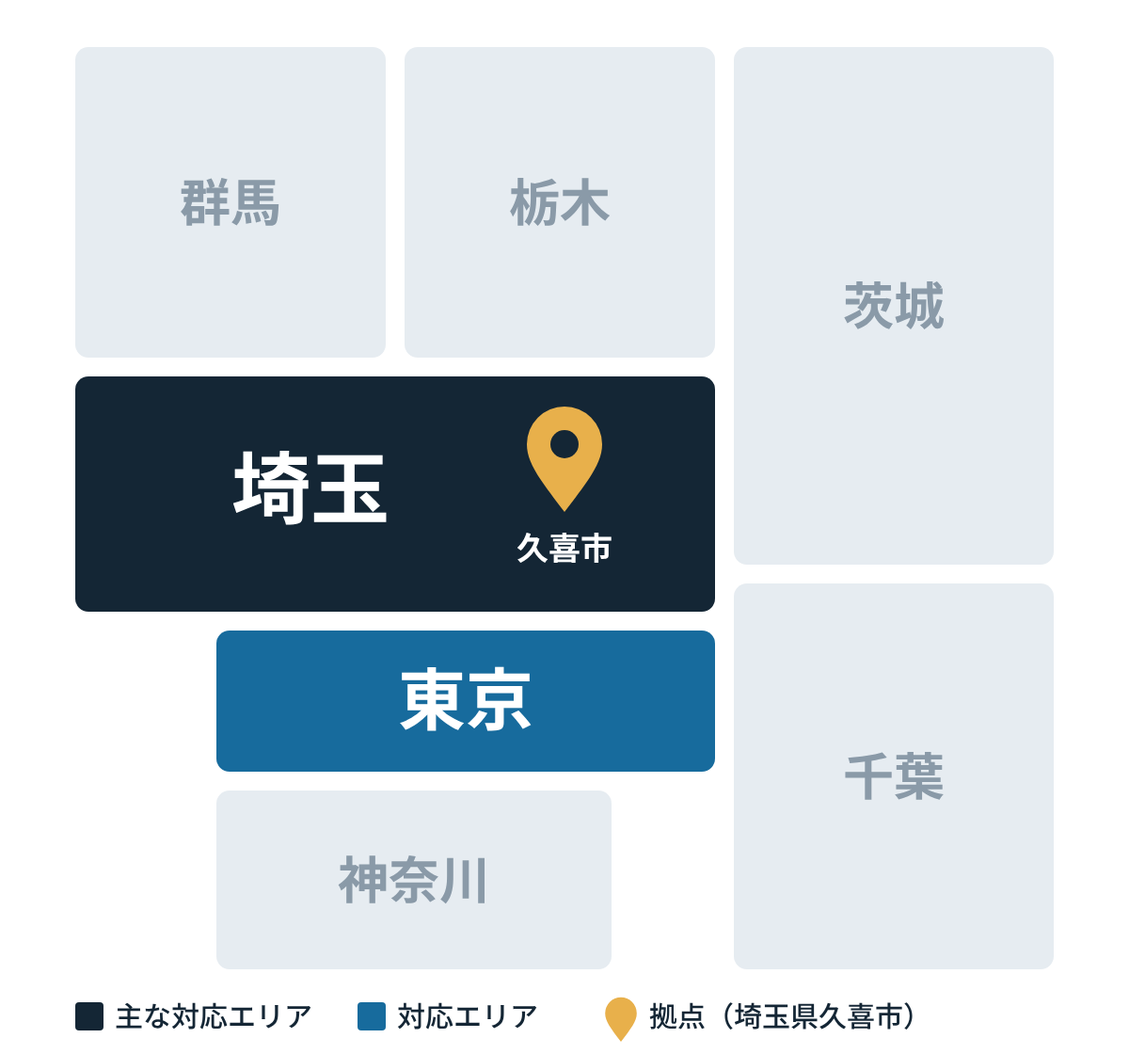
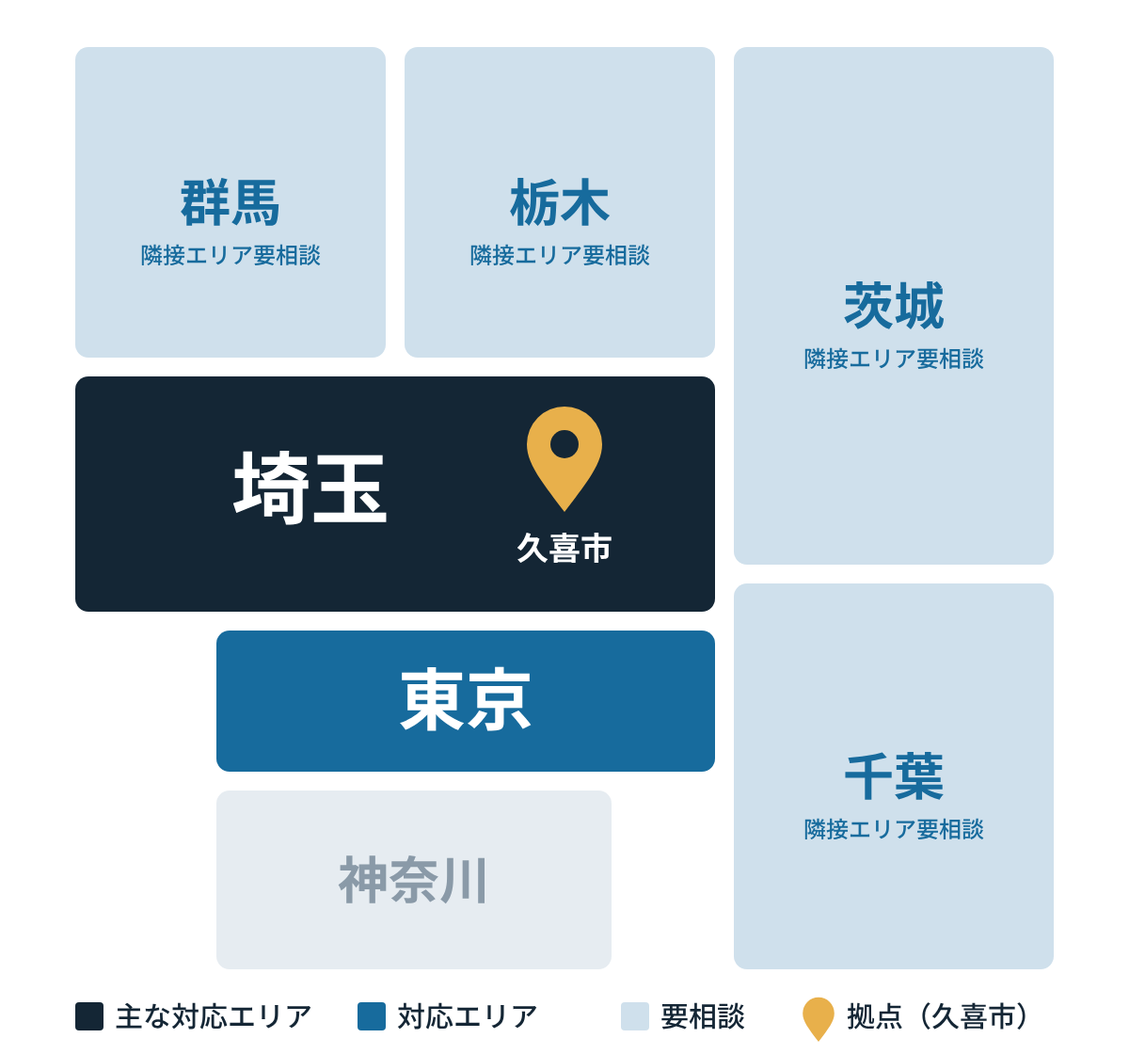
対応エリアに近隣4県の隣接エリア（要相談）を追加（地図・見本・指示書・AGENTS）
Claude-Session: https://claude.ai/code/session_0184Tob37FeXhvyjdxB8FYEQ

diff --git a/docs/design/white-mockup.html b/docs/design/white-mockup.html
@@ -187,7 +187,7 @@ a{color:#176B9D}a:hover{color:#142635}
 <a href="#contact" style="display: inline-flex; gap: 10px; align-items: center; background: #142635; color: #FFFFFF; text-decoration: none; padding: 16px 28px; font-weight: 700; font-size: 15px">ここにない質問も、お気軽に<span aria-hidden="true">→</span></a>
 </div>
 <div style="display: grid; grid-template-columns: repeat(2, minmax(0, 1fr)); gap: 16px">
-<div style="background:#F1F5F8;padding:28px 32px;display:flex;flex-direction:column;gap:16px;border-left:4px solid #142635"><div style="display:flex;gap:16px;align-items:center"><span style="flex:none;width:40px;height:40px;border-radius:50%;background:#142635;color:#FFFFFF;display:flex;align-items:center;justify-content:center;font-family:Inter,sans-serif;font-weight:800;font-size:18px">Q</span><p style="margin:0;font-size:19px;font-weight:700;line-height:1.5">どこまで対応してもらえますか？</p></div><div style="display:flex;gap:16px;align-items:flex-start"><span style="flex:none;width:40px;height:40px;border-radius:50%;background:#E8B04B;color:#142635;display:flex;align-items:center;justify-content:center;font-family:Inter,sans-serif;font-weight:800;font-size:18px">A</span><p style="margin:6px 0 0;font-size:15px;line-height:1.9;color:#33475A">退去立会いから、内装や設備の入れ替え工事、ハウスクリーニングまでまとめて対応します。</p></div></div><div style="background:#F1F5F8;padding:28px 32px;display:flex;flex-direction:column;gap:16px;border-left:4px solid #142635"><div style="display:flex;gap:16px;align-items:center"><span style="flex:none;width:40px;height:40px;border-radius:50%;background:#142635;color:#FFFFFF;display:flex;align-items:center;justify-content:center;font-family:Inter,sans-serif;font-weight:800;font-size:18px">Q</span><p style="margin:0;font-size:19px;font-weight:700;line-height:1.5">料金はどのように決まりますか？</p></div><div style="display:flex;gap:16px;align-items:flex-start"><span style="flex:none;width:40px;height:40px;border-radius:50%;background:#E8B04B;color:#142635;display:flex;align-items:center;justify-content:center;font-family:Inter,sans-serif;font-weight:800;font-size:18px">A</span><p style="margin:6px 0 0;font-size:15px;line-height:1.9;color:#33475A">物件の広さ、汚れの程度、仕様や数量、駐車条件によって変わります。現地確認のうえでお見積りをご提示します。</p></div></div><div style="background:#F1F5F8;padding:28px 32px;display:flex;flex-direction:column;gap:16px;border-left:4px solid #142635"><div style="display:flex;gap:16px;align-items:center"><span style="flex:none;width:40px;height:40px;border-radius:50%;background:#142635;color:#FFFFFF;display:flex;align-items:center;justify-content:center;font-family:Inter,sans-serif;font-weight:800;font-size:18px">Q</span><p style="margin:0;font-size:19px;font-weight:700;line-height:1.5">定期発注や複数物件にも対応できますか？</p></div><div style="display:flex;gap:16px;align-items:flex-start"><span style="flex:none;width:40px;height:40px;border-radius:50%;background:#E8B04B;color:#142635;display:flex;align-items:center;justify-content:center;font-family:Inter,sans-serif;font-weight:800;font-size:18px">A</span><p style="margin:6px 0 0;font-size:15px;line-height:1.9;color:#33475A">対応できます。ボリュームや頻度に応じた条件もご相談ください。</p></div></div><div style="background:#F1F5F8;padding:28px 32px;display:flex;flex-direction:column;gap:16px;border-left:4px solid #142635"><div style="display:flex;gap:16px;align-items:center"><span style="flex:none;width:40px;height:40px;border-radius:50%;background:#142635;color:#FFFFFF;display:flex;align-items:center;justify-content:center;font-family:Inter,sans-serif;font-weight:800;font-size:18px">Q</span><p style="margin:0;font-size:19px;font-weight:700;line-height:1.5">報告書や写真はもらえますか？</p></div><div style="display:flex;gap:16px;align-items:flex-start"><span style="flex:none;width:40px;height:40px;border-radius:50%;background:#E8B04B;color:#142635;display:flex;align-items:center;justify-content:center;font-family:Inter,sans-serif;font-weight:800;font-size:18px">A</span><p style="margin:6px 0 0;font-size:15px;line-height:1.9;color:#33475A">作業前後の写真と作業報告書をご用意できます。</p></div></div><div style="background:#F1F5F8;padding:28px 32px;display:flex;flex-direction:column;gap:16px;border-left:4px solid #142635"><div style="display:flex;gap:16px;align-items:center"><span style="flex:none;width:40px;height:40px;border-radius:50%;background:#142635;color:#FFFFFF;display:flex;align-items:center;justify-content:center;font-family:Inter,sans-serif;font-weight:800;font-size:18px">Q</span><p style="margin:0;font-size:19px;font-weight:700;line-height:1.5">対応エリアを教えてください。</p></div><div style="display:flex;gap:16px;align-items:flex-start"><span style="flex:none;width:40px;height:40px;border-radius:50%;background:#E8B04B;color:#142635;display:flex;align-items:center;justify-content:center;font-family:Inter,sans-serif;font-weight:800;font-size:18px">A</span><p style="margin:6px 0 0;font-size:15px;line-height:1.9;color:#33475A">埼玉県を中心に、東京都にも対応しています。複数物件をまとめてのご依頼や法人のお客様は、エリア外でも対応できる場合がありますのでご相談ください。</p></div><div style="background:#F1F5F8;padding:28px 32px;display:flex;flex-direction:column;gap:16px;border-left:4px solid #142635"><div style="display:flex;gap:16px;align-items:center"><span style="flex:none;width:40px;height:40px;border-radius:50%;background:#142635;color:#FFFFFF;display:flex;align-items:center;justify-content:center;font-family:Inter,sans-serif;font-weight:800;font-size:18px">Q</span><p style="margin:0;font-size:19px;font-weight:700;line-height:1.5">立会いは必要ですか？</p></div><div style="display:flex;gap:16px;align-items:flex-start"><span style="flex:none;width:40px;height:40px;border-radius:50%;background:#E8B04B;color:#142635;display:flex;align-items:center;justify-content:center;font-family:Inter,sans-serif;font-weight:800;font-size:18px">A</span><p style="margin:6px 0 0;font-size:15px;line-height:1.9;color:#33475A">立会いなしでも作業できます。鍵はキーボックスでの受け渡しをお願いしています。作業前後の様子は、写真でご報告します。</p></div></div><div style="background:#F1F5F8;padding:28px 32px;display:flex;flex-direction:column;gap:16px;border-left:4px solid #142635"><div style="display:flex;gap:16px;align-items:center"><span style="flex:none;width:40px;height:40px;border-radius:50%;background:#142635;color:#FFFFFF;display:flex;align-items:center;justify-content:center;font-family:Inter,sans-serif;font-weight:800;font-size:18px">Q</span><p style="margin:0;font-size:19px;font-weight:700;line-height:1.5">どのくらいの日数で終わりますか？</p></div><div style="display:flex;gap:16px;align-items:flex-start"><span style="flex:none;width:40px;height:40px;border-radius:50%;background:#E8B04B;color:#142635;display:flex;align-items:center;justify-content:center;font-family:Inter,sans-serif;font-weight:800;font-size:18px">A</span><p style="margin:6px 0 0;font-size:15px;line-height:1.9;color:#33475A">空室クリーニングのみの場合、1R〜2LDKで1日、2LDK〜3LDKで2日が目安です。日程に空きがあれば即日の対応も可能です。</p></div></div></div>
+<div style="background:#F1F5F8;padding:28px 32px;display:flex;flex-direction:column;gap:16px;border-left:4px solid #142635"><div style="display:flex;gap:16px;align-items:center"><span style="flex:none;width:40px;height:40px;border-radius:50%;background:#142635;color:#FFFFFF;display:flex;align-items:center;justify-content:center;font-family:Inter,sans-serif;font-weight:800;font-size:18px">Q</span><p style="margin:0;font-size:19px;font-weight:700;line-height:1.5">どこまで対応してもらえますか？</p></div><div style="display:flex;gap:16px;align-items:flex-start"><span style="flex:none;width:40px;height:40px;border-radius:50%;background:#E8B04B;color:#142635;display:flex;align-items:center;justify-content:center;font-family:Inter,sans-serif;font-weight:800;font-size:18px">A</span><p style="margin:6px 0 0;font-size:15px;line-height:1.9;color:#33475A">退去立会いから、内装や設備の入れ替え工事、ハウスクリーニングまでまとめて対応します。</p></div></div><div style="background:#F1F5F8;padding:28px 32px;display:flex;flex-direction:column;gap:16px;border-left:4px solid #142635"><div style="display:flex;gap:16px;align-items:center"><span style="flex:none;width:40px;height:40px;border-radius:50%;background:#142635;color:#FFFFFF;display:flex;align-items:center;justify-content:center;font-family:Inter,sans-serif;font-weight:800;font-size:18px">Q</span><p style="margin:0;font-size:19px;font-weight:700;line-height:1.5">料金はどのように決まりますか？</p></div><div style="display:flex;gap:16px;align-items:flex-start"><span style="flex:none;width:40px;height:40px;border-radius:50%;background:#E8B04B;color:#142635;display:flex;align-items:center;justify-content:center;font-family:Inter,sans-serif;font-weight:800;font-size:18px">A</span><p style="margin:6px 0 0;font-size:15px;line-height:1.9;color:#33475A">物件の広さ、汚れの程度、仕様や数量、駐車条件によって変わります。現地確認のうえでお見積りをご提示します。</p></div></div><div style="background:#F1F5F8;padding:28px 32px;display:flex;flex-direction:column;gap:16px;border-left:4px solid #142635"><div style="display:flex;gap:16px;align-items:center"><span style="flex:none;width:40px;height:40px;border-radius:50%;background:#142635;color:#FFFFFF;display:flex;align-items:center;justify-content:center;font-family:Inter,sans-serif;font-weight:800;font-size:18px">Q</span><p style="margin:0;font-size:19px;font-weight:700;line-height:1.5">定期発注や複数物件にも対応できますか？</p></div><div style="display:flex;gap:16px;align-items:flex-start"><span style="flex:none;width:40px;height:40px;border-radius:50%;background:#E8B04B;color:#142635;display:flex;align-items:center;justify-content:center;font-family:Inter,sans-serif;font-weight:800;font-size:18px">A</span><p style="margin:6px 0 0;font-size:15px;line-height:1.9;color:#33475A">対応できます。ボリュームや頻度に応じた条件もご相談ください。</p></div></div><div style="background:#F1F5F8;padding:28px 32px;display:flex;flex-direction:column;gap:16px;border-left:4px solid #142635"><div style="display:flex;gap:16px;align-items:center"><span style="flex:none;width:40px;height:40px;border-radius:50%;background:#142635;color:#FFFFFF;display:flex;align-items:center;justify-content:center;font-family:Inter,sans-serif;font-weight:800;font-size:18px">Q</span><p style="margin:0;font-size:19px;font-weight:700;line-height:1.5">報告書や写真はもらえますか？</p></div><div style="display:flex;gap:16px;align-items:flex-start"><span style="flex:none;width:40px;height:40px;border-radius:50%;background:#E8B04B;color:#142635;display:flex;align-items:center;justify-content:center;font-family:Inter,sans-serif;font-weight:800;font-size:18px">A</span><p style="margin:6px 0 0;font-size:15px;line-height:1.9;color:#33475A">作業前後の写真と作業報告書をご用意できます。</p></div></div><div style="background:#F1F5F8;padding:28px 32px;display:flex;flex-direction:column;gap:16px;border-left:4px solid #142635"><div style="display:flex;gap:16px;align-items:center"><span style="flex:none;width:40px;height:40px;border-radius:50%;background:#142635;color:#FFFFFF;display:flex;align-items:center;justify-content:center;font-family:Inter,sans-serif;font-weight:800;font-size:18px">Q</span><p style="margin:0;font-size:19px;font-weight:700;line-height:1.5">対応エリアを教えてください。</p></div><div style="display:flex;gap:16px;align-items:flex-start"><span style="flex:none;width:40px;height:40px;border-radius:50%;background:#E8B04B;color:#142635;display:flex;align-items:center;justify-content:center;font-family:Inter,sans-serif;font-weight:800;font-size:18px">A</span><p style="margin:6px 0 0;font-size:15px;line-height:1.9;color:#33475A">埼玉県を中心に、東京都にも対応しています。群馬県・栃木県・茨城県・千葉県のうち、埼玉県に隣接するエリアもご相談ください。複数物件をまとめてのご依頼や法人のお客様は、エリア外でも対応できる場合がありますのでご相談ください。</p></div><div style="background:#F1F5F8;padding:28px 32px;display:flex;flex-direction:column;gap:16px;border-left:4px solid #142635"><div style="display:flex;gap:16px;align-items:center"><span style="flex:none;width:40px;height:40px;border-radius:50%;background:#142635;color:#FFFFFF;display:flex;align-items:center;justify-content:center;font-family:Inter,sans-serif;font-weight:800;font-size:18px">Q</span><p style="margin:0;font-size:19px;font-weight:700;line-height:1.5">立会いは必要ですか？</p></div><div style="display:flex;gap:16px;align-items:flex-start"><span style="flex:none;width:40px;height:40px;border-radius:50%;background:#E8B04B;color:#142635;display:flex;align-items:center;justify-content:center;font-family:Inter,sans-serif;font-weight:800;font-size:18px">A</span><p style="margin:6px 0 0;font-size:15px;line-height:1.9;color:#33475A">立会いなしでも作業できます。鍵はキーボックスでの受け渡しをお願いしています。作業前後の様子は、写真でご報告します。</p></div></div><div style="background:#F1F5F8;padding:28px 32px;display:flex;flex-direction:column;gap:16px;border-left:4px solid #142635"><div style="display:flex;gap:16px;align-items:center"><span style="flex:none;width:40px;height:40px;border-radius:50%;background:#142635;color:#FFFFFF;display:flex;align-items:center;justify-content:center;font-family:Inter,sans-serif;font-weight:800;font-size:18px">Q</span><p style="margin:0;font-size:19px;font-weight:700;line-height:1.5">どのくらいの日数で終わりますか？</p></div><div style="display:flex;gap:16px;align-items:flex-start"><span style="flex:none;width:40px;height:40px;border-radius:50%;background:#E8B04B;color:#142635;display:flex;align-items:center;justify-content:center;font-family:Inter,sans-serif;font-weight:800;font-size:18px">A</span><p style="margin:6px 0 0;font-size:15px;line-height:1.9;color:#33475A">空室クリーニングのみの場合、1R〜2LDKで1日、2LDK〜3LDKで2日が目安です。日程に空きがあれば即日の対応も可能です。</p></div></div></div>
 </div>
 </div>
 </section>

diff --git a/docs/design/top-mockup.html b/docs/design/top-mockup.html
@@ -38,7 +38,7 @@ a{color:#176B9D}a:hover{color:#142635}
 <p style="margin: 0; font-weight: 700; font-size: 15px; letter-spacing: 1px; color: #176B9D">埼玉の空室清掃・原状回復・エアコンクリーニング｜株式会社INcrein</p>
 <h1 style="margin: 0; font-size: 46px; line-height: 1.45; font-weight: 700; letter-spacing: 2px">きれいにする。<br>その先の、安心と<br>次のスタートを。</h1>
 <p style="margin: 0; font-size: 21px; font-weight: 700; line-height: 1.6">退去後の清掃・原状回復・エアコンクリーニングを、<br>窓口ひとつで。</p>
-<p style="margin: 0; max-width: 520px; font-size: 15px; color: #33475A">不動産管理会社様・オーナー様のパートナーとして、埼玉県を中心に東京都にも対応しています。</p>
+<p style="margin: 0; max-width: 520px; font-size: 15px; color: #33475A">不動産管理会社様・オーナー様のパートナーとして、埼玉県を中心に、東京都と、埼玉県に隣接する近県のエリア（要相談）にも対応しています。</p>
 <div style="display: flex; flex-wrap: wrap; gap: 16px; margin-top: 16px">
 <a href="#contact" style="display: inline-flex; align-items: center; gap: 12px; background: #142635; color: #FFFFFF; text-decoration: none; padding: 18px 32px; font-weight: 500">見積を相談する<span aria-hidden="true">→</span></a>
 <a href="#service" style="display: inline-flex; align-items: center; gap: 12px; border: 1px solid #142635; color: #142635; text-decoration: none; padding: 17px 31px; font-weight: 500">サービスを見る</a>
@@ -60,7 +60,7 @@ a{color:#176B9D}a:hover{color:#142635}
 </div>
 <div style="padding: 32px 24px; display: flex; flex-direction: column; gap: 4px; border-right: 1px solid #2B4256">
 <span style="font-size: 13px; color: #A9BCCB">対応エリア</span>
-<span style="font-size: 20px; font-weight: 700">埼玉県・東京都</span>
+<span style="font-size: 20px; font-weight: 700">埼玉県・東京都ほか</span>
 </div>
 <div style="padding: 32px 24px; display: flex; flex-direction: column; gap: 4px">
 <span style="font-size: 13px; color: #A9BCCB">お見積り</span>
@@ -186,11 +186,12 @@ a{color:#176B9D}a:hover{color:#142635}
 <p style="margin: 0; color: #176B9D; font-size: 15px; font-weight: 500; letter-spacing: 0.6px">・対応エリア</p>
 </div>
 <div style="display: flex; flex-wrap: wrap; gap: 56px; align-items: center">
-<img src="assets/increin-area-map.png" alt="対応エリアの地図。埼玉県が主な対応エリア、東京都も対応エリア。拠点は埼玉県久喜市" style="flex: 1 1 400px; min-width: 0; max-width: 480px; width: 100%; height: auto; display: block">
+<img src="assets/increin-area-map.png" alt="対応エリアの地図。埼玉県が主な対応エリア、東京都も対応エリア。群馬県・栃木県・茨城県・千葉県の埼玉県に隣接するエリアは要相談。拠点は埼玉県久喜市" style="flex: 1 1 400px; min-width: 0; max-width: 480px; width: 100%; height: auto; display: block">
 <div style="flex: 1 1 440px; min-width: 0; display: flex; flex-direction: column; gap: 24px">
 <h3 style="margin: 0; font-size: 26px; font-weight: 700; line-height: 1.5">久喜市を拠点に、<br>埼玉県全域と東京都へ。</h3>
 <div style="background: #F1F5F8; padding: 28px; display: flex; flex-direction: column; gap: 14px; border-left: 4px solid #142635"><span style="font-weight: 700">埼玉県（主な対応エリア）</span><div style="display: flex; flex-wrap: wrap; gap: 8px"><span style="display: inline-block; white-space: nowrap; background: #FFFFFF; border: 1px solid #D3DEE7; padding: 6px 14px; font-size: 14px">さいたま市</span><span style="display: inline-block; white-space: nowrap; background: #FFFFFF; border: 1px solid #D3DEE7; padding: 6px 14px; font-size: 14px">川口市</span><span style="display: inline-block; white-space: nowrap; background: #FFFFFF; border: 1px solid #D3DEE7; padding: 6px 14px; font-size: 14px">越谷市</span><span style="display: inline-block; white-space: nowrap; background: #FFFFFF; border: 1px solid #D3DEE7; padding: 6px 14px; font-size: 14px">春日部市</span><span style="display: inline-block; white-space: nowrap; background: #FFFFFF; border: 1px solid #D3DEE7; padding: 6px 14px; font-size: 14px">久喜市</span><span style="display: inline-block; white-space: nowrap; background: #FFFFFF; border: 1px solid #D3DEE7; padding: 6px 14px; font-size: 14px">加須市</span><span style="display: inline-block; white-space: nowrap; background: #FFFFFF; border: 1px solid #D3DEE7; padding: 6px 14px; font-size: 14px">行田市</span><span style="display: inline-block; white-space: nowrap; background: #FFFFFF; border: 1px solid #D3DEE7; padding: 6px 14px; font-size: 14px">上尾市</span><span style="display: inline-block; white-space: nowrap; background: #FFFFFF; border: 1px solid #D3DEE7; padding: 6px 14px; font-size: 14px">熊谷市</span><span style="display: inline-block; white-space: nowrap; background: #FFFFFF; border: 1px solid #D3DEE7; padding: 6px 14px; font-size: 14px">羽生市</span><span style="display: inline-block; white-space: nowrap; background: #FFFFFF; border: 1px solid #D3DEE7; padding: 6px 14px; font-size: 14px">幸手市</span><span style="display: inline-block; white-space: nowrap; background: #FFFFFF; border: 1px solid #D3DEE7; padding: 6px 14px; font-size: 14px">白岡市</span><span style="display: inline-block; white-space: nowrap; background: #FFFFFF; border: 1px solid #D3DEE7; padding: 6px 14px; font-size: 14px">蓮田市</span><span style="display: inline-block; white-space: nowrap; background: #FFFFFF; border: 1px solid #D3DEE7; padding: 6px 14px; font-size: 14px">ほか</span></div></div>
 <div style="background: #F1F5F8; padding: 28px; display: flex; flex-direction: column; gap: 14px; border-left: 4px solid #176B9D"><span style="font-weight: 700">東京都</span><div style="display: flex; flex-wrap: wrap; gap: 8px"><span style="display: inline-block; white-space: nowrap; background: #FFFFFF; border: 1px solid #D3DEE7; padding: 6px 14px; font-size: 14px">北区</span><span style="display: inline-block; white-space: nowrap; background: #FFFFFF; border: 1px solid #D3DEE7; padding: 6px 14px; font-size: 14px">板橋区</span><span style="display: inline-block; white-space: nowrap; background: #FFFFFF; border: 1px solid #D3DEE7; padding: 6px 14px; font-size: 14px">練馬区</span><span style="display: inline-block; white-space: nowrap; background: #FFFFFF; border: 1px solid #D3DEE7; padding: 6px 14px; font-size: 14px">足立区</span><span style="display: inline-block; white-space: nowrap; background: #FFFFFF; border: 1px solid #D3DEE7; padding: 6px 14px; font-size: 14px">杉並区</span><span style="display: inline-block; white-space: nowrap; background: #FFFFFF; border: 1px solid #D3DEE7; padding: 6px 14px; font-size: 14px">豊島区</span><span style="display: inline-block; white-space: nowrap; background: #FFFFFF; border: 1px solid #D3DEE7; padding: 6px 14px; font-size: 14px">荒川区</span><span style="display: inline-block; white-space: nowrap; background: #FFFFFF; border: 1px solid #D3DEE7; padding: 6px 14px; font-size: 14px">ほか</span></div></div>
+<div style="background: #F1F5F8; padding: 24px 28px; display: flex; flex-direction: column; gap: 10px; border-left: 4px solid #A9C8DD"><span style="font-weight: 700">群馬県・栃木県・茨城県・千葉県<span style="font-size: 13px; font-weight: 500; color: #176B9D; margin-left: 8px">要相談</span></span><span style="font-size: 14px; color: #33475A">埼玉県に隣接するエリアは対応できる場合があります。所在地をお知らせください。</span></div>
 <p style="margin: 0; font-size: 15px">案件内容や施工体制によって対応できない場合があります。複数物件をまとめてのご依頼や法人のお客様は、エリア外でも対応できる場合がありますのでご相談ください。</p>
 </div>
 </div>

diff --git a/docs/chatgpt-tasks/003-finish-before-publish.md b/docs/chatgpt-tasks/003-finish-before-publish.md
@@ -289,3 +289,14 @@
 - PC・スマホで確認し studio-progress.md に追記。公開・課金なし
 
 - **追加（8:07 代表確定）**：WHiTE. ページの「オプション作業」の先頭にも1行追加：「退去立会い　10,000円／件」（下に小さく濃い金 #B45309 で「10万円以上の工事のご依頼で0円」）。見本 white-mockup.html 更新済み
+
+## 追加：対応エリアを近隣県（要相談）まで広げる（2026-10-31 8:15 Claude・代表決定）
+
+代表決定：群馬・栃木・茨城・千葉のうち、埼玉県に隣接するエリアは対応（要相談）。見本 top-mockup.html・white-mockup.html 更新済み。
+- **地図画像を差し替え**：GitHub `docs/design/assets/increin-area-map.png`（新版。4県を薄い青で「隣接エリア要相談」、凡例に「要相談」）を STUDIO にアップロードし、トップAREAの地図を差し替え。alt「対応エリアの地図。埼玉県が主な対応エリア、東京都も対応エリア。群馬県・栃木県・茨城県・千葉県の埼玉県に隣接するエリアは要相談。拠点は埼玉県久喜市」
+- **トップAREA**：東京都の箱の下に3つ目の箱（左線4px #A9C8DD）：太字「群馬県・栃木県・茨城県・千葉県」＋青い小さな「要相談」、説明「埼玉県に隣接するエリアは対応できる場合があります。所在地をお知らせください。」
+- **トップのヒーロー下の説明文**：「…埼玉県を中心に、東京都と、埼玉県に隣接する近県のエリア（要相談）にも対応しています。」
+- **トップの基本情報帯**：対応エリアの値を「埼玉県・東京都ほか」
+- **WHiTE. FAQ「対応エリアを教えてください。」の回答**：「埼玉県を中心に、東京都にも対応しています。群馬県・栃木県・茨城県・千葉県のうち、埼玉県に隣接するエリアもご相談ください。複数物件をまとめてのご依頼や法人のお客様は、エリア外でも対応できる場合がありますのでご相談ください。」
+- 法人向け・FRESH.・会社情報・SEO説明文などに「埼玉県を中心に東京都にも対応」とある箇所があれば、同じ趣旨に合わせる（近県は必ず「要相談」を付ける）
+- PC・スマホで確認し studio-progress.md に追記。公開・課金なし

diff --git a/AGENTS.md b/AGENTS.md
@@ -26,7 +26,7 @@ Claude 用の `CLAUDE.md` もこのファイルを参照しています。ルー
 
 - 会社：株式会社INcrein（インクレイン）。代表者1名＋協力業者で運営
 - 事業所住所：埼玉県久喜市菖蒲町台908
-- 対応エリア：埼玉県中心、東京都にも対応
+- 対応エリア：埼玉県中心、東京都にも対応。群馬・栃木・茨城・千葉のうち埼玉県に隣接するエリアは要相談で対応（2026-10-31 代表決定）
 - 優先顧客：不動産管理会社・不動産会社などの法人
 - ブランド
   - **INcrein**：親ブランド（法人全体）
